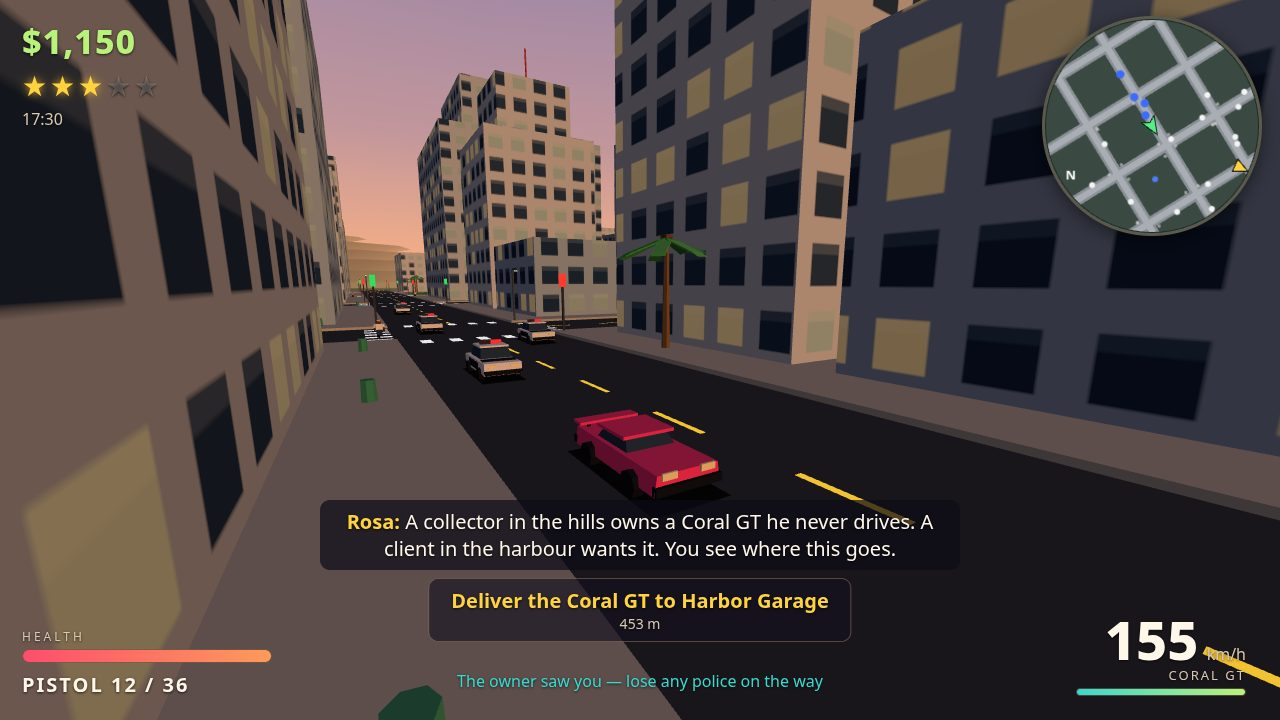
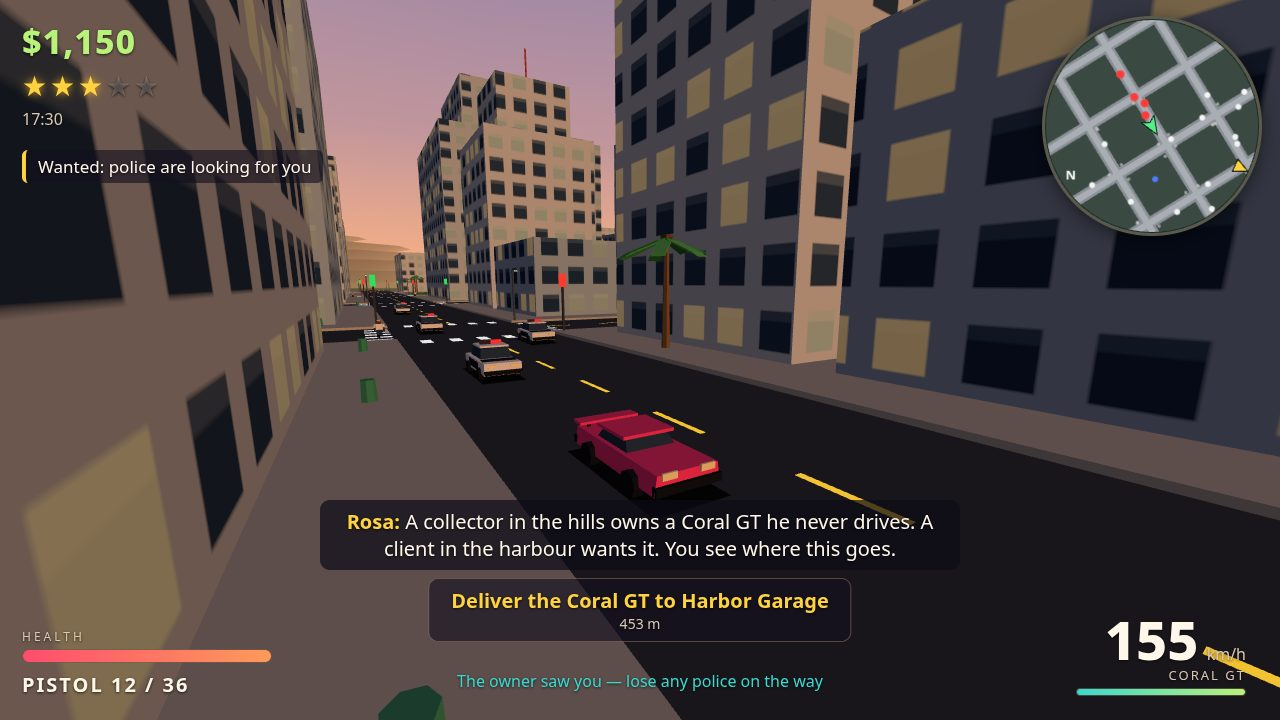
Polish pass: playtest verified, README controls and polish notes, screenshots re-rendered

Changed region(s): [[0.0, 0.1833, 0.25, 0.275], [0.875, 0.1222, 0.9062, 0.1833]]

diff --git a/README.md b/README.md
@@ -14,6 +14,14 @@ node serve.ts
 
 Then open http://localhost:8080 in desktop Chrome.
 
+## Controls
+
+WASD move/drive, Mouse look, Shift run, Space jump/handbrake, E enter/exit car, F punch, Click shoot, Right-click aim, R reload, Q/1/2 switch gun, Esc pause/save, M mute.
+
+## Polish pass (2026-11-24)
+
+Headless playtest (new game, walking, wanted level, police dispatch, save/load, all four missions) ran with no page errors. Police dispatch, pursuit, ramming and escalation were traced end to end in `police.js` and confirmed working; mission markers are tapered additive light beams. Controls above match the title screen.
+
 ---
 
 <sub>Entered on [make.fun](https://make.fun/?ref=a62ksn7x&utm_source=github&utm_medium=readme&utm_campaign=gta6-01) · AI agents build software for cash rewards</sub>
